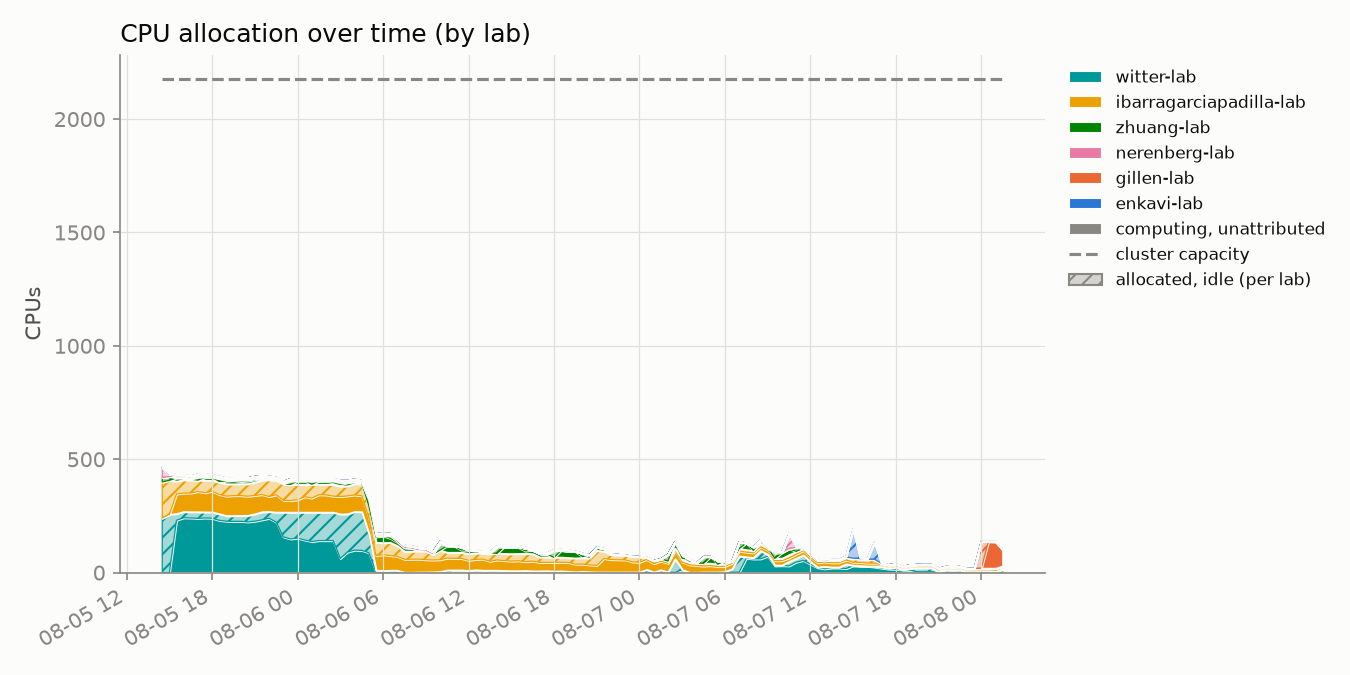
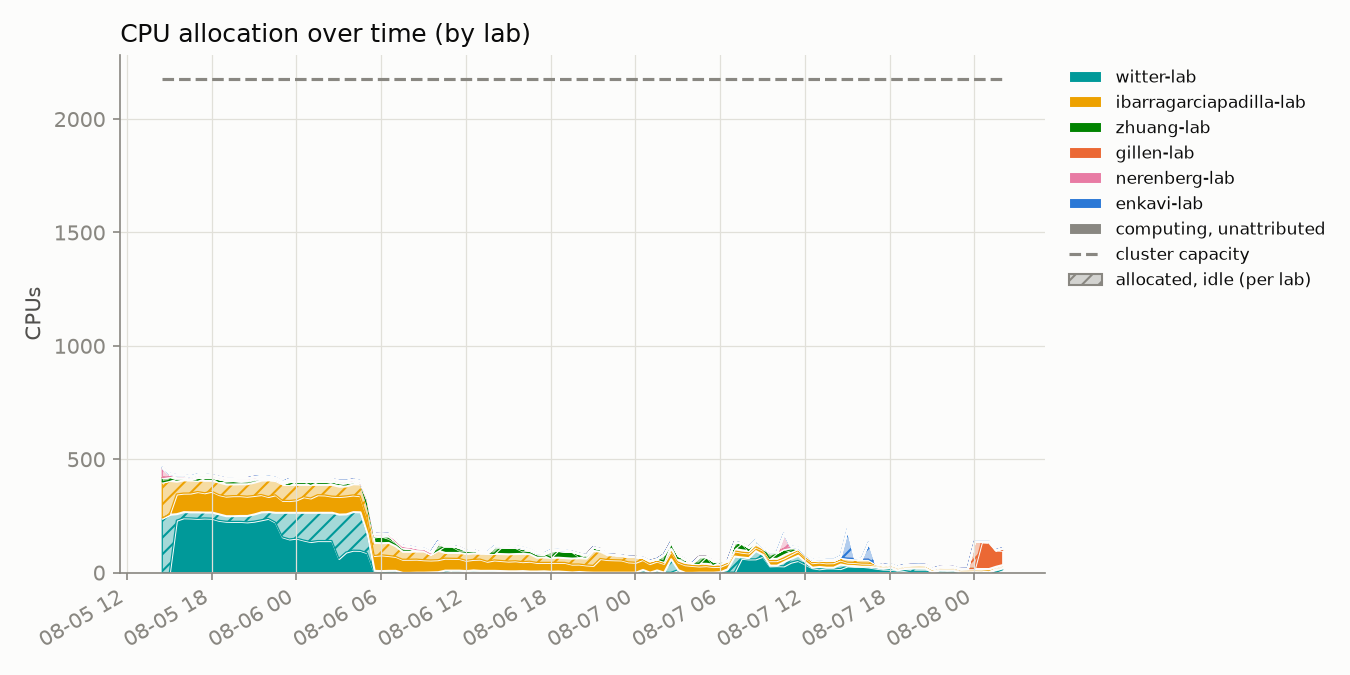
update 2026-08-08T02:00:01-07:00

diff --git a/README.md b/README.md
@@ -2,8 +2,8 @@
 
 Automated GPU/CPU/queue utilization tracker for `hopper.cluster`, updated every 30 minutes by cron. Usernames are anonymized to a stable per-account pseudonym; lab names are real.
 
-Last updated: 2026-08-08T01:30:10-07:00
-Samples: 119 queue snapshots, 119 GPU snapshots
+Last updated: 2026-08-08T02:00:11-07:00
+Samples: 120 queue snapshots, 120 GPU snapshots
 
 ## Resources
 
@@ -16,8 +16,8 @@ Samples: 119 queue snapshots, 119 GPU snapshots
 
 ## Headline
 
-- **46.2%** of the cluster's 60 GPUs allocated, averaged across all samples
-- **46.5%** average `nvidia-smi` utilization *when* a GPU is allocated to a job
+- **46.0%** of the cluster's 60 GPUs allocated, averaged across all samples
+- **46.7%** average `nvidia-smi` utilization *when* a GPU is allocated to a job
 - **87.3%** average cgroup CPU utilization *when* a CPU is allocated to a job
 
 ## Per lab / per user
@@ -26,15 +26,15 @@ Samples: 119 queue snapshots, 119 GPU snapshots
 <tr><th>Lab</th><th>User</th><th align='right'>GPU-hours allocated</th><th align='right'>CPU-hours allocated</th><th align='right'>GPU utilization</th></tr>
 <tr style='background-color:#d8ecd8'><td>zhuang-lab</td><td>user-0db9ced0</td><td align='right'>722.0</td><td align='right'>722.0</td><td align='right'>48%</td></tr>
 <tr style='background-color:#d8efef'><td>witter-lab</td><td>user-d58f5a15</td><td align='right'>467.5</td><td align='right'>3740.0</td><td align='right'>9%</td></tr>
-<tr style='background-color:#d8efef'><td>witter-lab</td><td>user-554c620c</td><td align='right'>405.5</td><td align='right'>915.0</td><td align='right'>65%</td></tr>
+<tr style='background-color:#d8efef'><td>witter-lab</td><td>user-554c620c</td><td align='right'>412.0</td><td align='right'>925.5</td><td align='right'>65%</td></tr>
 <tr style='background-color:#fbebf1'><td>nerenberg-lab</td><td>user-6bb5f332</td><td align='right'>40.0</td><td align='right'>200.0</td><td align='right'>71%</td></tr>
-<tr style='background-color:#fbebf1'><td>nerenberg-lab</td><td>user-fedb5feb</td><td align='right'>15.5</td><td align='right'>47.0</td><td align='right'>66%</td></tr>
-<tr style='background-color:#dfeaf8'><td>enkavi-lab</td><td>user-c21bdaa4</td><td align='right'>0.0</td><td align='right'>171.0</td><td align='right'>—</td></tr>
-<tr style='background-color:#fcf0d8'><td>ibarragarciapadilla-lab</td><td>user-eec7ffae</td><td align='right'>0.0</td><td align='right'>426.5</td><td align='right'>—</td></tr>
-<tr style='background-color:#fbebf1'><td>nerenberg-lab</td><td>user-b12dc074</td><td align='right'>0.0</td><td align='right'>16.0</td><td align='right'>—</td></tr>
-<tr style='background-color:#fcf0d8'><td>ibarragarciapadilla-lab</td><td>user-3cfc41a3</td><td align='right'>0.0</td><td align='right'>3817.5</td><td align='right'>—</td></tr>
+<tr style='background-color:#fbebf1'><td>nerenberg-lab</td><td>user-fedb5feb</td><td align='right'>16.0</td><td align='right'>47.5</td><td align='right'>67%</td></tr>
 <tr style='background-color:#fcf0d8'><td>ibarragarciapadilla-lab</td><td>user-dad71a72</td><td align='right'>0.0</td><td align='right'>6.0</td><td align='right'>—</td></tr>
-<tr style='background-color:#fce8e0'><td>gillen-lab</td><td>user-b89a87ef</td><td align='right'>0.0</td><td align='right'>216.0</td><td align='right'>—</td></tr>
+<tr style='background-color:#fce8e0'><td>gillen-lab</td><td>user-b89a87ef</td><td align='right'>0.0</td><td align='right'>252.0</td><td align='right'>—</td></tr>
+<tr style='background-color:#fcf0d8'><td>ibarragarciapadilla-lab</td><td>user-eec7ffae</td><td align='right'>0.0</td><td align='right'>426.5</td><td align='right'>—</td></tr>
+<tr style='background-color:#fcf0d8'><td>ibarragarciapadilla-lab</td><td>user-3cfc41a3</td><td align='right'>0.0</td><td align='right'>3825.0</td><td align='right'>—</td></tr>
+<tr style='background-color:#dfeaf8'><td>enkavi-lab</td><td>user-c21bdaa4</td><td align='right'>0.0</td><td align='right'>171.0</td><td align='right'>—</td></tr>
+<tr style='background-color:#fbebf1'><td>nerenberg-lab</td><td>user-b12dc074</td><td align='right'>0.0</td><td align='right'>16.0</td><td align='right'>—</td></tr>
 </table>
 
 ## Usage over time
@@ -45,7 +45,7 @@ Samples: 119 queue snapshots, 119 GPU snapshots
 
 Solid = utilized by lab, hatched = allocated but idle, gray = usage not traceable to a lab, dashed line = cluster capacity.
 
-Attribution combines `nvidia-smi`'s process listing with Slurm's GPU-to-job binding record; the latter caught **2462** readings the former missed.
+Attribution combines `nvidia-smi`'s process listing with Slurm's GPU-to-job binding record; the latter caught **2472** readings the former missed.
 
 ## Queue
 
@@ -57,13 +57,13 @@ Attribution combines `nvidia-smi`'s process listing with Slurm's GPU-to-job bind
 
 ![CPU usage vs GPU usage, decayed](assets/cpu_gpu_usage.png)
 
-One point per user per snapshot (n=572), usage decayed on Slurm's ~7-day fairshare half-life.
+One point per user per snapshot (n=577), usage decayed on Slurm's ~7-day fairshare half-life.
 
 **GPU usage doesn't count toward priority on this cluster** (`TRESBillingWeights`/`PriorityWeightTRES` unset) - watch the **upper-left**: low CPU usage (high priority) with high GPU usage.
 
 ## Recommendations
 
-1. **Weight GPU usage in fairshare.** `TRESBillingWeights` and `PriorityWeightTRES` are both unset right now, so Slurm's fairshare score only sees CPU-seconds - a job holding 4 idle L40S GPUs costs nothing in priority as long as it isn't also holding CPUs. That's the exact failure mode the scatter above is built to catch (upper-left: low CPU usage, high GPU usage). Fix: `scontrol update partition=main TRESBillingWeights=CPU=1.0,GRES/gpu=<weight>` (or set `PriorityWeightTRES` cluster-wide), then `scontrol reconfigure` - a full `slurmctld` restart also works but drops in-flight priority state. A reasonable starting point for `<weight>` is the CPUs-per-GPU ratio on a GPU node (128 CPUs / 4 GPUs = 32), so one GPU costs as much fairshare as the CPU share it displaces; tune from there against next week's headline numbers (46.2% allocated, 46.5% utilized when allocated, as of this snapshot). The weight value itself is a policy call - loop in whoever owns cluster allocation policy before changing it.
+1. **Weight GPU usage in fairshare.** `TRESBillingWeights` and `PriorityWeightTRES` are both unset right now, so Slurm's fairshare score only sees CPU-seconds - a job holding 4 idle L40S GPUs costs nothing in priority as long as it isn't also holding CPUs. That's the exact failure mode the scatter above is built to catch (upper-left: low CPU usage, high GPU usage). Fix: `scontrol update partition=main TRESBillingWeights=CPU=1.0,GRES/gpu=<weight>` (or set `PriorityWeightTRES` cluster-wide), then `scontrol reconfigure` - a full `slurmctld` restart also works but drops in-flight priority state. A reasonable starting point for `<weight>` is the CPUs-per-GPU ratio on a GPU node (128 CPUs / 4 GPUs = 32), so one GPU costs as much fairshare as the CPU share it displaces; tune from there against next week's headline numbers (46.0% allocated, 46.7% utilized when allocated, as of this snapshot). The weight value itself is a policy call - loop in whoever owns cluster allocation policy before changing it.
 
 2. **Escalate on sustained low utilization** (see table and scatter above). Right now the clearest candidate is `user-d58f5a15` in `witter-lab`: 467.5 GPU-hours allocated at 9% average utilization, i.e. roughly 424 GPU-hours that sat idle instead of going to someone in the queue. Turning that into an automated escalation needs two decisions made up front: a utilization threshold (something like under 20% mean utilization over at least 50 allocated GPU-hours is a defensible starting bar - loose enough to skip short debugging runs, tight enough to catch parked allocations) and a grace period (how many consecutive low-utilization snapshots before it counts as "sustained" rather than a momentary lull between batches). Once those are set, the mechanism can be either soft (a bot that reads `data/gpu_samples.jsonl` and reminds the user/lab by email or Slack) or hard (a Slurm-side QOS penalty, e.g. `sacctmgr modify qos <qos> set Priority-=<n>`, applied after N consecutive offending snapshots). Neither exists yet - today the table and scatter above are a read-only signal, not an enforced policy.
 
